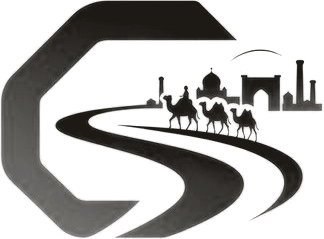
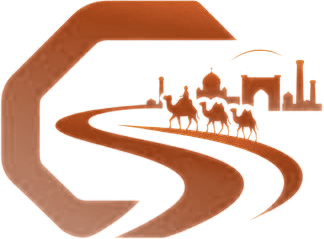
Палитра «Песок и терракота» и логотип в её цветах (#47)
Команда выбрала палитру №2 «Песок и терракота» из лаборатории цветов.
Логотип перекрашен под неё.

**Цвета**
| Токен | Цвет |
|---|---|
| фон / плашки | #fbf5ec / #efdfc6 |
| текст / серый | #2e1d12 / #6b5341 |
| золото (кнопки, выделенная карточка) | #eea72a |
| терракота (цены, «House», акценты) | #a4471c / #c75b2a |
| текст на золоте и тёмные кнопки | #3a1f0b |

Вручную прописанные цвета тоже переведены на палитру: золотые свечения,
тени, маркер в заголовке, картинка-превью ссылок, `theme-color`.

**Логотип** перекрашен из исходного золотого знака с сохранением
градиента, деталей и прозрачности:
- в шапке сайта — терракотовый градиент, в тон «House»;
- на тёмном фоне (превью ссылок, полный логотип) — терракота с золотом;
- favicon, иконки приложения и логотип для Google (JSON-LD) — тот же
знак на тёплом тёмно-коричневом вместо чёрного.

Включает изменения из #46 (тёплые тёмные цвета), после merge #46
закроется автоматически.

---
_Generated by [Claude
Code](https://claude.ai/code/session_018N7NaueB26i5T2oWTQonRf)_

---------

diff --git a/app/globals.css b/app/globals.css
@@ -3,23 +3,23 @@
 /* Шрифт сайта — Montserrat (next/font/google, подключён в app/[lang]/layout.tsx): кириллица, латиница и узбекская ʻ. */
 
 @theme {
-  /* Светлая тема: белая «бумага», графитовый текст, фирменное золото.
+  /* Палитра «Песок и терракота»: песочная «бумага», тёплый коричневый текст, золото и терракота.
      Золото как заливка — accent, золото как текст на белом — accent-ink (контраст ≥ 4.5:1). */
-  --color-bg: #fffdf8;
-  --color-bg-elevated: #fff6e2;
-  --color-surface: #fbeed0;
-  --color-line: #efe2c6;
-  --color-line-strong: #e0cda6;
-  --color-fg: #1d1a16;
-  --color-muted: #5c564d;
-  --color-subtle: #857d70;
-  --color-accent: #f4b223;
-  --color-accent-soft: #ffc94d;
-  --color-accent-deep: #e0891b;
-  --color-accent-ink: #8f5b00;
-  --color-accent-wash: #ffefc7;
-  --color-on-accent: #1d1406;
-  --color-night: #13110e;
+  --color-bg: #fbf5ec;
+  --color-bg-elevated: #f6ecdc;
+  --color-surface: #efdfc6;
+  --color-line: #eadbc3;
+  --color-line-strong: #d9c19c;
+  --color-fg: #2e1d12;
+  --color-muted: #6b5341;
+  --color-subtle: #8a7260;
+  --color-accent: #eea72a;
+  --color-accent-soft: #f7c25e;
+  --color-accent-deep: #c75b2a;
+  --color-accent-ink: #a4471c;
+  --color-accent-wash: #fbe2c4;
+  --color-on-accent: #3a1f0b;
+  --color-night: #24160c;
 
   --font-sans: var(--font-montserrat), ui-sans-serif, system-ui, sans-serif;
   --font-display: var(--font-montserrat), ui-sans-serif, system-ui, sans-serif;
@@ -76,7 +76,7 @@ html.lenis body {
   }
 
   ::selection {
-    background-color: rgb(244 178 35 / 0.4);
+    background-color: rgb(238 167 42 / 0.4);
     color: var(--color-fg);
   }
 
@@ -107,16 +107,16 @@ html.lenis body {
 /* Клетка школьной тетради — фон hero */
 @utility bg-notebook {
   background-image:
-    linear-gradient(to right, rgb(224 137 27 / 0.1) 1px, transparent 1px),
-    linear-gradient(to bottom, rgb(224 137 27 / 0.1) 1px, transparent 1px);
+    linear-gradient(to right, rgb(199 91 42 / 0.1) 1px, transparent 1px),
+    linear-gradient(to bottom, rgb(199 91 42 / 0.1) 1px, transparent 1px);
   background-size: 28px 28px;
 }
 
 /* Старый фон-сетка для страницы 404 */
 @utility bg-grid {
   background-image:
-    linear-gradient(to right, rgb(244 178 35 / 0.12) 1px, transparent 1px),
-    linear-gradient(to bottom, rgb(244 178 35 / 0.12) 1px, transparent 1px);
+    linear-gradient(to right, rgb(238 167 42 / 0.12) 1px, transparent 1px),
+    linear-gradient(to bottom, rgb(238 167 42 / 0.12) 1px, transparent 1px);
   background-size: 56px 56px;
 }
 
@@ -212,7 +212,7 @@ html.lenis body {
   }
 }
 @utility marker {
-  background-image: linear-gradient(100deg, rgb(244 178 35 / 0.75), rgb(255 201 77 / 0.9));
+  background-image: linear-gradient(100deg, rgb(238 167 42 / 0.75), rgb(247 194 94 / 0.9));
   background-repeat: no-repeat;
   background-position: 0 88%;
   background-size: 100% 0.42em;
@@ -324,5 +324,5 @@ html.lenis body {
 
 /* Мягкое тёплое свечение без filter: blur (дёшево для телефонов) */
 @utility soft-glow {
-  background-image: radial-gradient(closest-side, var(--glow, rgb(244 178 35 / 0.35)), transparent 100%);
+  background-image: radial-gradient(closest-side, var(--glow, rgb(238 167 42 / 0.35)), transparent 100%);
 }

diff --git a/components/Packages.tsx b/components/Packages.tsx
@@ -30,7 +30,7 @@ export default function Packages({ dict, prices }: { dict: Dictionary; prices: P
   return (
     <section id="prices" aria-labelledby="prices-title" className="relative isolate overflow-hidden py-20 sm:py-28">
       <GoldShapes set="prices" />
-      <div aria-hidden="true" className="soft-glow pointer-events-none absolute top-1/3 left-1/2 -z-10 h-[520px] w-[900px] -translate-x-1/2 [--glow:rgb(244_178_35/0.22)]" />
+      <div aria-hidden="true" className="soft-glow pointer-events-none absolute top-1/3 left-1/2 -z-10 h-[520px] w-[900px] -translate-x-1/2 [--glow:rgb(238_167_42/0.22)]" />
       <div className="mx-auto max-w-7xl px-4 sm:px-6 lg:px-8">
         <Reveal>
           <SectionHeading id="prices-title" title={t.title} subtitle={t.subtitle} />
@@ -45,21 +45,21 @@ export default function Packages({ dict, prices }: { dict: Dictionary; prices: P
                 delay={index * 0.1}
                 className={`relative flex w-full flex-col overflow-hidden rounded-[1.75rem] p-7 transition-[translate,box-shadow] duration-700 ease-soft hover:-translate-y-2 sm:p-8 ${
                   featured
-                    ? "bg-accent text-on-accent shadow-[0_40px_80px_-40px_rgb(143_91_0/0.8)] lg:-my-4 lg:py-12"
-                    : "border border-line bg-bg hover:shadow-[0_24px_50px_-30px_rgb(143_91_0/0.45)]"
+                    ? "bg-accent text-on-accent shadow-[0_40px_80px_-40px_rgb(164_71_28/0.8)] lg:-my-4 lg:py-12"
+                    : "border border-line bg-bg hover:shadow-[0_24px_50px_-30px_rgb(164_71_28/0.45)]"
                 }`}
               >
                 {featured ? (
                   <span aria-hidden="true" className="animate-shimmer pointer-events-none absolute inset-y-0 left-0 w-1/3 bg-gradient-to-r from-transparent via-white/45 to-transparent" />
                 ) : null}
-                {featured ? <p className="relative mb-4 self-start rounded-full bg-fg px-3 py-1 text-xs font-bold text-accent">{t.popular}</p> : null}
+                {featured ? <p className="relative mb-4 self-start rounded-full bg-on-accent px-3 py-1 text-xs font-bold text-accent">{t.popular}</p> : null}
                 <h3 className="relative font-display text-xl font-bold tracking-[-0.02em] sm:text-2xl">{pkg.title}</h3>
-                <p className={`relative mt-2 ${featured ? "text-on-accent/75" : "text-muted"}`}>{pkg.note}</p>
+                <p className={`relative mt-2 ${featured ? "text-on-accent/85" : "text-muted"}`}>{pkg.note}</p>
                 <p className={`relative mt-6 text-2xl font-extrabold tracking-tight sm:text-3xl ${featured ? "" : "text-accent-ink"}`}>{label}</p>
                 <ul className={`relative mt-7 flex flex-col gap-3 border-t pt-7 ${featured ? "border-on-accent/20" : "border-line"}`}>
                   {pkg.features.map((feature) => (
                     <li key={feature} className="flex items-start gap-3 leading-snug">
-                      <span className={`mt-0.5 flex h-5 w-5 shrink-0 items-center justify-center rounded-full ${featured ? "bg-fg text-accent" : "bg-accent text-on-accent"}`}>
+                      <span className={`mt-0.5 flex h-5 w-5 shrink-0 items-center justify-center rounded-full ${featured ? "bg-on-accent text-accent" : "bg-accent text-on-accent"}`}>
                         <Check className="h-3 w-3" aria-hidden="true" strokeWidth={3} />
                       </span>
                       {feature}

diff --git a/components/FinalCTA.tsx b/components/FinalCTA.tsx
@@ -23,7 +23,7 @@ export default function FinalCTA({ dict }: { dict: Dictionary }) {
           <div className="soft-glow h-full w-full [--glow:rgb(255_255_255/0.45)]" />
         </Parallax>
       </div>
-      <GoldShapes set="cta" className="[--color-accent:#fff8e6]" />
+      <GoldShapes set="cta" className="[--color-accent:#fcf3e4]" />
       <div className="mx-auto max-w-7xl px-4 sm:px-6 lg:px-8">
         <div>
 
@@ -32,7 +32,7 @@ export default function FinalCTA({ dict }: { dict: Dictionary }) {
               <h2 id="cta-title" className="font-display text-[1.75rem] leading-[1.15] font-bold tracking-[-0.02em] text-balance sm:text-4xl lg:text-[2.75rem]">
                 {finalCta.title}
               </h2>
-              <p className="mt-5 text-base leading-relaxed text-on-accent/80 text-pretty sm:text-lg">{finalCta.subtitle}</p>
+              <p className="mt-5 text-base leading-relaxed text-on-accent/85 text-pretty sm:text-lg">{finalCta.subtitle}</p>
 
               <div className="mt-8 flex flex-col items-center gap-5 lg:items-start">
                 <ButtonLink href={botUrl("site_cta")} external variant="ink" size="lg" className="w-full sm:h-16 sm:w-auto sm:px-10 sm:text-lg">
@@ -40,11 +40,11 @@ export default function FinalCTA({ dict }: { dict: Dictionary }) {
                   {finalCta.button}
                 </ButtonLink>
                 <Availability t={dict.availability} />
-                <p className="flex flex-wrap items-center justify-center gap-x-2 text-sm text-on-accent/80">
+                <p className="flex flex-wrap items-center justify-center gap-x-2 text-sm text-on-accent/85">
                   {finalCta.orCall}
                   <a
                     href={contacts.phoneHref}
-                    className="inline-flex items-center gap-1.5 rounded font-semibold text-fg underline decoration-fg/40 underline-offset-4 hover:decoration-fg"
+                    className="inline-flex items-center gap-1.5 rounded font-semibold text-on-accent underline decoration-on-accent/40 underline-offset-4 hover:decoration-on-accent"
                   >
                     <Phone className="h-4 w-4" aria-hidden="true" />
                     {contacts.phone}
@@ -54,7 +54,7 @@ export default function FinalCTA({ dict }: { dict: Dictionary }) {
             </Parallax>
 
             <div>
-              <p className="mb-4 flex items-center gap-3 text-sm font-semibold text-on-accent/70 lg:hidden">
+              <p className="mb-4 flex items-center gap-3 text-sm font-semibold text-on-accent/85 lg:hidden">
                 <span className="h-px flex-1 bg-on-accent/25" />
                 {finalCta.or}
                 <span className="h-px flex-1 bg-on-accent/25" />

diff --git a/lib/og.tsx b/lib/og.tsx
@@ -36,10 +36,10 @@ export async function renderOgImage(meta: Dictionary["meta"]) {
           flexDirection: "column",
           justifyContent: "space-between",
           padding: "72px 80px",
-          backgroundColor: "#090807",
+          backgroundColor: "#2a1a0f",
           backgroundImage:
-            "radial-gradient(circle at 85% 0%, rgba(246,183,60,0.35), transparent 45%), radial-gradient(circle at 0% 100%, rgba(224,137,27,0.22), transparent 45%)",
-          color: "#f5f3ef",
+            "radial-gradient(circle at 85% 0%, rgba(238,167,42,0.35), transparent 45%), radial-gradient(circle at 0% 100%, rgba(199,91,42,0.22), transparent 45%)",
+          color: "#fbf5ec",
           fontFamily: "Montserrat",
         }}
       >
@@ -48,24 +48,24 @@ export async function renderOgImage(meta: Dictionary["meta"]) {
           <img src={emblem} width={98} height={72} alt="" />
           <div style={{ display: "flex", fontSize: 44, fontWeight: 800, letterSpacing: -1 }}>
             <span>Caravan</span>
-            <span style={{ color: "#f6b73c" }}>House</span>
+            <span style={{ color: "#eea72a" }}>House</span>
           </div>
         </div>
 
         <div style={{ display: "flex", flexDirection: "column", fontSize: 58, fontWeight: 800, lineHeight: 1.1, letterSpacing: -2 }}>
           <span>{meta.ogTagline}</span>
-          <span style={{ color: "#f6b73c" }}>{meta.ogTaglineAccent}</span>
+          <span style={{ color: "#eea72a" }}>{meta.ogTaglineAccent}</span>
         </div>
 
-        <div style={{ display: "flex", justifyContent: "space-between", alignItems: "center", fontSize: 28, fontWeight: 500, color: "#b0a99d" }}>
+        <div style={{ display: "flex", justifyContent: "space-between", alignItems: "center", fontSize: 28, fontWeight: 500, color: "#d9c19c" }}>
           <span>{meta.ogFooter}</span>
           <span
             style={{
               display: "flex",
               padding: "12px 26px",
               borderRadius: 999,
-              border: "2px solid rgba(246,183,60,0.5)",
-              color: "#ffd27a",
+              border: "2px solid rgba(238,167,42,0.5)",
+              color: "#f7c25e",
             }}
           >
             caravanhouse.uz

diff --git a/components/Hero.tsx b/components/Hero.tsx
@@ -27,7 +27,7 @@ function Schedule({ t }: { t: Dictionary["hero"]["schedule"] }) {
   const col = (day: number, display: "block" | "flex" = "flex") => !hiddenOnPhone.has(day) ? "" : display === "flex" ? "hidden sm:flex" : "hidden sm:block";
   return (
     <figure aria-label={t.label} className="animate-float relative">
-      <div className="rounded-[1.75rem] border border-line bg-bg p-4 shadow-[0_40px_90px_-40px_rgb(143_91_0/0.45)] sm:p-6">
+      <div className="rounded-[1.75rem] border border-line bg-bg p-4 shadow-[0_40px_90px_-40px_rgb(164_71_28/0.45)] sm:p-6">
         <figcaption className="flex items-baseline justify-between gap-4">
           <span className="font-display text-base font-bold tracking-tight sm:text-lg">{t.title}</span>
           <span className="text-xs text-subtle">edu.caravanhouse.uz</span>
@@ -83,7 +83,7 @@ function Schedule({ t }: { t: Dictionary["hero"]["schedule"] }) {
       {/* Уведомление, которое администратор получает в Telegram после записи */}
       <div
         aria-hidden="true"
-        className="animate-toast-in absolute -bottom-12 left-3 right-3 flex items-start gap-3 rounded-2xl border border-line bg-bg p-3.5 shadow-[0_24px_60px_-24px_rgb(29_26_22/0.45)] sm:-bottom-10 sm:left-auto sm:-right-4 sm:w-80 lg:-right-8"
+        className="animate-toast-in absolute -bottom-12 left-3 right-3 flex items-start gap-3 rounded-2xl border border-line bg-bg p-3.5 shadow-[0_24px_60px_-24px_rgb(58_31_11/0.45)] sm:-bottom-10 sm:left-auto sm:-right-4 sm:w-80 lg:-right-8"
       >
         <span className="flex h-10 w-10 shrink-0 items-center justify-center rounded-full bg-[#2aabee] text-white">
           <TelegramIcon className="h-5 w-5" />
@@ -110,7 +110,7 @@ export default function Hero({ dict }: Props) {
           <div className="soft-glow h-full w-full" />
         </Parallax>
         <Parallax offset={160} className="absolute -bottom-40 -left-48 h-[420px] w-[560px]">
-          <div className="soft-glow h-full w-full [--glow:rgb(255_201_77/0.28)]" />
+          <div className="soft-glow h-full w-full [--glow:rgb(247_194_94/0.28)]" />
         </Parallax>
       </div>
       <GoldShapes set="hero" />

diff --git a/components/SiteShowcase.tsx b/components/SiteShowcase.tsx
@@ -37,7 +37,7 @@ export default function SiteShowcase({ dict }: { dict: Dictionary }) {
               <Parallax as="li" key={module.id} offset={[18, -26, 34][index % 3]}>
               <Reveal
                 delay={(index % 3) * 0.08}
-                className="group flex h-full gap-4 rounded-3xl border border-line bg-bg p-5 transition-[translate,box-shadow,border-color] duration-700 ease-soft hover:-translate-y-1.5 hover:border-accent hover:shadow-[0_20px_40px_-24px_rgb(143_91_0/0.45)] sm:p-6"
+                className="group flex h-full gap-4 rounded-3xl border border-line bg-bg p-5 transition-[translate,box-shadow,border-color] duration-700 ease-soft hover:-translate-y-1.5 hover:border-accent hover:shadow-[0_20px_40px_-24px_rgb(164_71_28/0.45)] sm:p-6"
               >
                 <span className="flex h-12 w-12 shrink-0 items-center justify-center rounded-2xl bg-accent text-on-accent transition-transform duration-500 ease-soft group-hover:-rotate-6 group-hover:scale-110">
                   <Icon className="h-5 w-5" aria-hidden="true" />
@@ -58,7 +58,7 @@ export default function SiteShowcase({ dict }: { dict: Dictionary }) {
             href={eduDemo.url}
             target="_blank"
             rel="noopener noreferrer"
-            className="group block overflow-hidden rounded-2xl border border-line shadow-[0_30px_70px_-40px_rgb(143_91_0/0.55)]"
+            className="group block overflow-hidden rounded-2xl border border-line shadow-[0_30px_70px_-40px_rgb(164_71_28/0.55)]"
           >
             <div aria-hidden="true" className="flex h-7 items-center gap-1.5 border-b border-line bg-surface px-3">
               <span className="h-2 w-2 rounded-full bg-line-strong" />

diff --git a/components/LeadForm.tsx b/components/LeadForm.tsx
@@ -44,7 +44,7 @@ export default function LeadForm({ form }: { form: Form }) {
 
   if (phase.name === "done") {
     return (
-      <div role="status" className="flex h-full flex-col items-center justify-center gap-4 rounded-3xl bg-bg p-8 text-center text-fg shadow-[0_40px_80px_-40px_rgb(29_26_22/0.5)]">
+      <div role="status" className="flex h-full flex-col items-center justify-center gap-4 rounded-3xl bg-bg p-8 text-center text-fg shadow-[0_40px_80px_-40px_rgb(58_31_11/0.5)]">
         <CircleCheck className="h-10 w-10 text-emerald-600" aria-hidden="true" />
         <p className="text-lg font-semibold">
           {phase.id ? form.success.replace("{id}", String(phase.id)) : form.successNoId}
@@ -55,7 +55,7 @@ export default function LeadForm({ form }: { form: Form }) {
 
   const sending = phase.name === "sending";
   return (
-    <form onSubmit={submit} noValidate className="relative flex flex-col gap-4 rounded-3xl bg-bg p-6 text-left text-fg shadow-[0_40px_80px_-40px_rgb(29_26_22/0.5)] sm:p-7">
+    <form onSubmit={submit} noValidate className="relative flex flex-col gap-4 rounded-3xl bg-bg p-6 text-left text-fg shadow-[0_40px_80px_-40px_rgb(58_31_11/0.5)] sm:p-7">
       <p className="text-xl font-bold tracking-tight">{form.title}</p>
       <div className="grid gap-4 sm:grid-cols-2">
         <label htmlFor={`${id}-name`} className="flex flex-col gap-2 text-sm text-muted">

diff --git a/components/Logo.tsx b/components/Logo.tsx
@@ -4,8 +4,10 @@ import type { Locale } from "@/locales";
 import emblemDark from "@/public/brand/emblem-dark.png";
 import logoFull from "@/public/brand/logo-full.png";
 
-// Знак CaravanHouse: «C» с дорогой каравана. На светлом сайте — чёрная версия public/brand/emblem-dark.png
-// (сделана из emblem.png: та же форма и прозрачность, цвет графитовый). Золотой emblem.png — для тёмного фона (OG-картинка).
+// Знак CaravanHouse: «C» с дорогой каравана, в цветах палитры «Песок и терракота».
+// public/brand/emblem-dark.png — для светлого фона сайта: терракотовый градиент, как «House» в названии.
+// public/brand/emblem.png — для тёмного фона (OG-картинка): терракота с золотом. Оба перекрашены из исходного золотого знака
+// с сохранением градиента и прозрачности.
 // Декоративный: рядом всегда есть название, поэтому alt пустой.
 export function LogoMark({ className = "h-8 w-auto" }: { className?: string }) {
   return <Image src={emblemDark} alt="" width={44} height={32} className={className} />;

diff --git a/components/FloatingTelegram.tsx b/components/FloatingTelegram.tsx
@@ -23,7 +23,7 @@ export default function FloatingTelegram({ label }: { label: string }) {
       aria-label={label}
       tabIndex={visible ? undefined : -1}
       aria-hidden={visible ? undefined : true}
-      className={`fixed right-4 bottom-[max(1rem,env(safe-area-inset-bottom))] z-40 flex h-14 w-14 items-center justify-center rounded-full bg-accent text-on-accent shadow-[0_12px_40px_-8px_rgb(246_183_60/0.7)] transition-all duration-300 md:hidden ${
+      className={`fixed right-4 bottom-[max(1rem,env(safe-area-inset-bottom))] z-40 flex h-14 w-14 items-center justify-center rounded-full bg-accent text-on-accent shadow-[0_12px_40px_-8px_rgb(238_167_42/0.7)] transition-all duration-300 md:hidden ${
         visible ? "translate-y-0 opacity-100" : "pointer-events-none translate-y-4 opacity-0"
       }`}
     >

diff --git a/components/Process.tsx b/components/Process.tsx
@@ -24,7 +24,7 @@ export default function Process({ dict }: { dict: Dictionary }) {
             <Parallax as="li" key={step.title} offset={[10, 34, -14, 24][index]}>
             <Reveal delay={index * 0.15}>
               <GrowLine delay={0.2 + index * 0.25} />
-              <span className="mt-6 flex h-14 w-14 items-center justify-center rounded-full bg-accent font-display text-2xl font-bold text-on-accent shadow-[0_12px_30px_-12px_rgb(143_91_0/0.7)]">
+              <span className="mt-6 flex h-14 w-14 items-center justify-center rounded-full bg-accent font-display text-2xl font-bold text-on-accent shadow-[0_12px_30px_-12px_rgb(164_71_28/0.7)]">
                 {index + 1}
               </span>
               <h3 className="mt-5 text-xl font-bold tracking-tight">{step.title}</h3>

diff --git a/components/ui/ButtonLink.tsx b/components/ui/ButtonLink.tsx
@@ -14,8 +14,8 @@ const variants: Record<Variant, string> = {
   // золотой контур — подписка на канал
   outline: "border border-accent/60 text-accent-ink hover:border-accent hover:bg-accent/10",
   ghost: "text-muted hover:text-fg",
-  // графит — акцентный пакет на светлом фоне
-  ink: "bg-fg text-bg hover:bg-fg/85",
+  // эспрессо — тёмная кнопка: тёплый коричневый вместо чёрного, сочетается с золотом и кремом
+  ink: "bg-on-accent text-bg hover:bg-on-accent/90",
 };
 
 const sizes: Record<Size, string> = {

diff --git a/components/motion/ParallaxWord.tsx b/components/motion/ParallaxWord.tsx
@@ -13,7 +13,7 @@ export default function ParallaxWord({ text, from = "10%", to = "-30%", classNam
     <div ref={ref} aria-hidden="true" className={`pointer-events-none absolute inset-x-0 -z-10 overflow-hidden ${className}`}>
       <m.p
         style={reduce ? undefined : { x }}
-        className="font-display text-[18vw] leading-none font-bold whitespace-nowrap text-transparent [-webkit-text-stroke:2px_rgb(244_178_35/0.4)] lg:text-[13rem]"
+        className="font-display text-[18vw] leading-none font-bold whitespace-nowrap text-transparent [-webkit-text-stroke:2px_rgb(238_167_42/0.4)] lg:text-[13rem]"
       >
         {text}
       </m.p>
